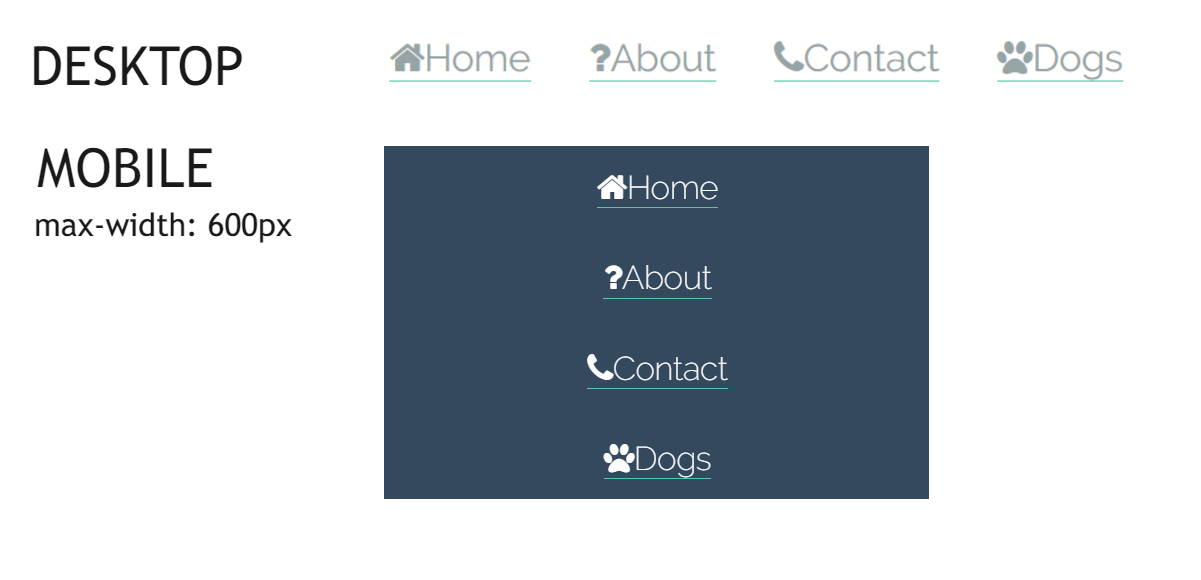
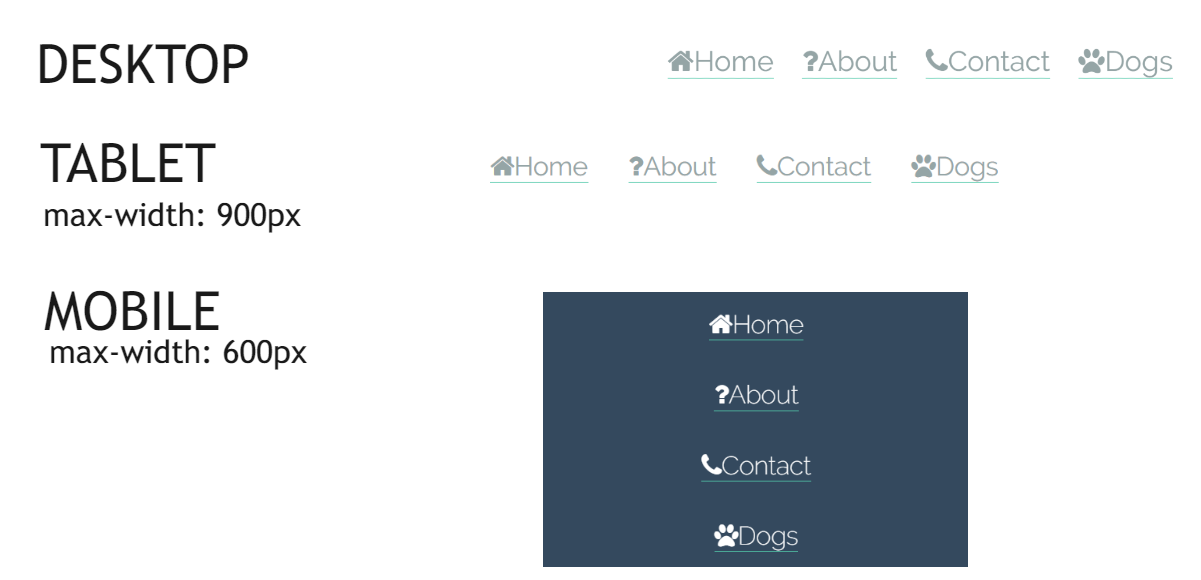
added responsive menu easy

diff --git a/responsive menu easy/README.md b/responsive menu easy/README.md
@@ -1,3 +1,3 @@
 # Responsive menu easy
 
-Skapa följande meny för desktop och mobile (max-width: 600px)
+Skapa följande meny för desktop (placerad till höger), tablet (centrerad) och mobile som är i kolumn Låt tablet ha max-width: 900px och mobile max-width: 600px.
